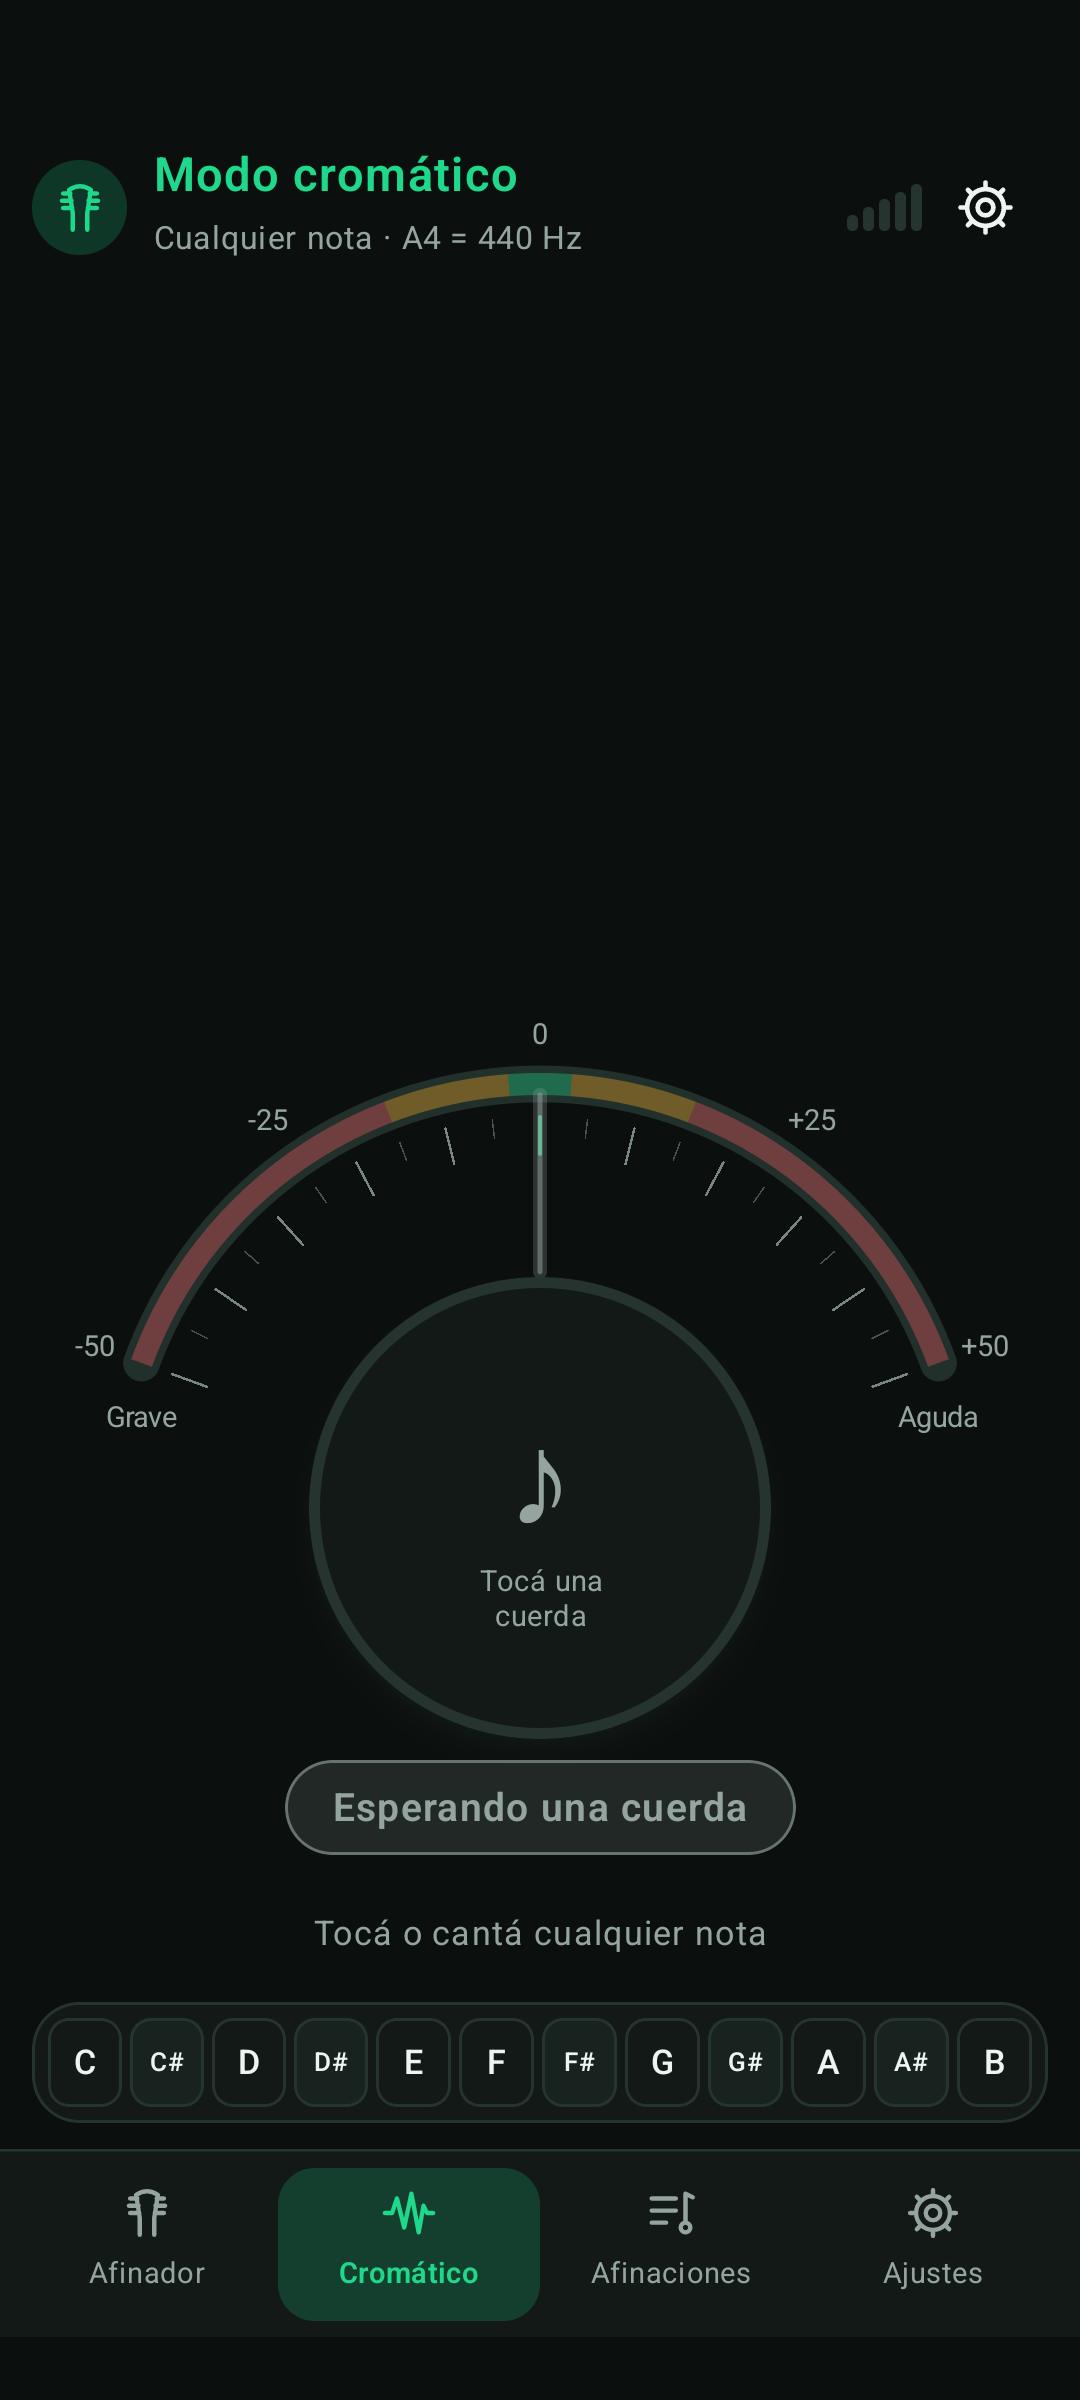
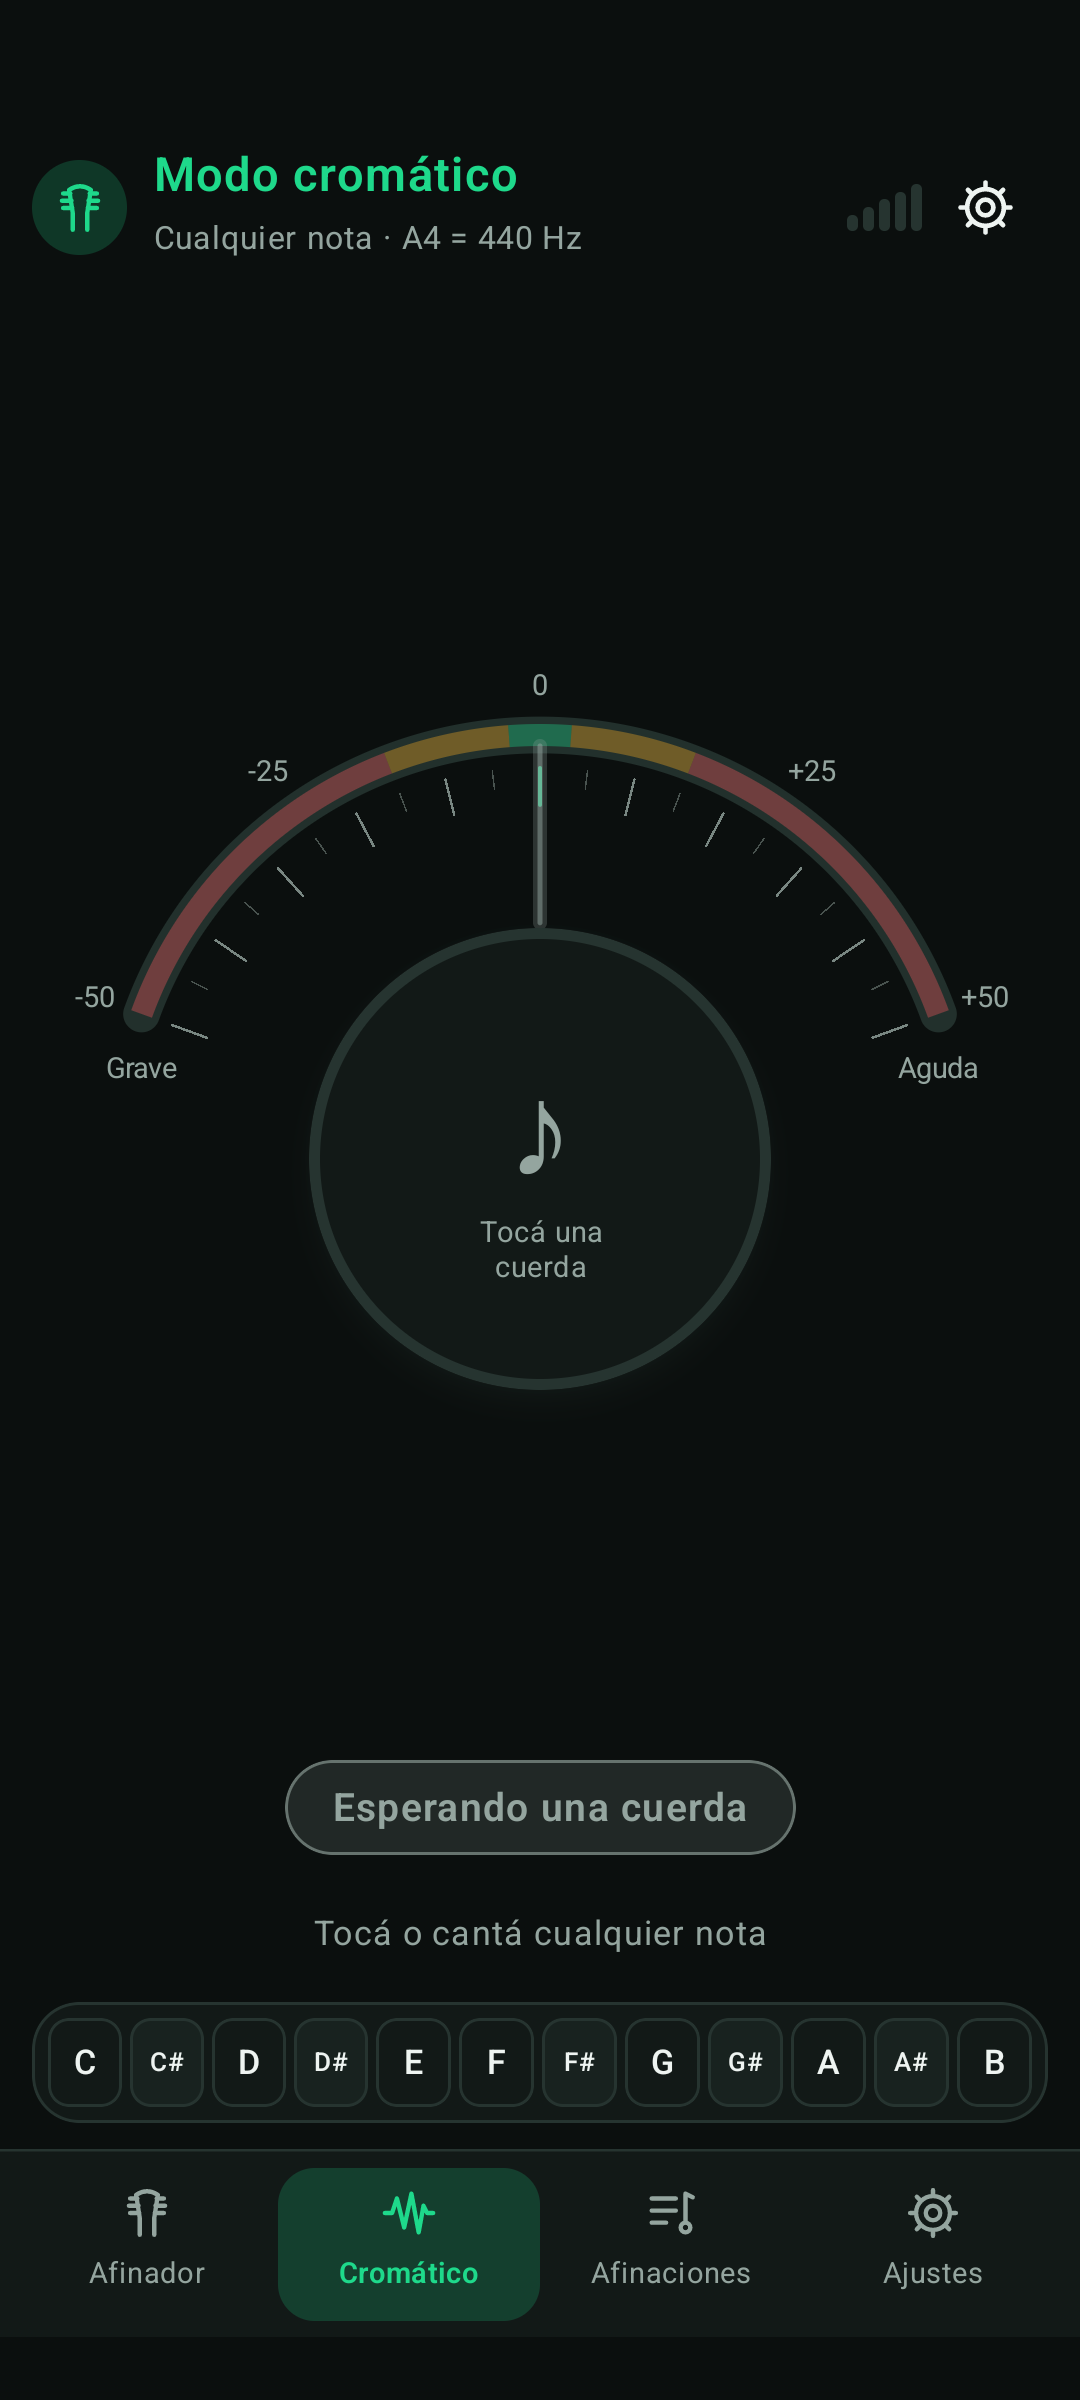
Afinador: informe actualizado para la versión 1.0.7
Claude-Session: https://claude.ai/code/session_01PLz5xwo8xYp4HnG1p9CSPT

diff --git a/docs/INFORME.md b/docs/INFORME.md
@@ -1,4 +1,4 @@
-# Informe de compilación y pruebas — Afinador Acústico 1.0.6
+# Informe de compilación y pruebas — Afinador Acústico 1.0.7
 
 Todo lo que figura acá se ejecutó de verdad, en este entorno o en GitHub Actions. Ningún resultado es simulado.
 
@@ -6,11 +6,11 @@ Todo lo que figura acá se ejecutó de verdad, en este entorno o en GitHub Actio
 
 | | |
 |---|---|
-| APK de lanzamiento | `AfinadorAcustico-1.0.6.apk` (1.344.560 bytes) |
-| Descarga | https://github.com/georgestrike25-afk/App-pc-finazas/releases/download/afinador-v1.0.6/AfinadorAcustico-1.0.6.apk |
-| Página del release | https://github.com/georgestrike25-afk/App-pc-finazas/releases/tag/afinador-v1.0.6 |
[1 lines of base64/hex data omitted]
-| Paquete | `com.afinador.acustico`, versionCode 6, minSdk 26 (Android 8.0), targetSdk 35 |
+| APK de lanzamiento | `AfinadorAcustico-1.0.7.apk` (1.344.560 bytes) |
+| Descarga | https://github.com/georgestrike25-afk/App-pc-finazas/releases/download/afinador-v1.0.7/AfinadorAcustico-1.0.7.apk |
+| Página del release | https://github.com/georgestrike25-afk/App-pc-finazas/releases/tag/afinador-v1.0.7 |
[1 lines of base64/hex data omitted]
+| Paquete | `com.afinador.acustico`, versionCode 7, minSdk 26 (Android 8.0), targetSdk 35 |
 | Firma | APK Signature Scheme v2, verificada con `apksigner verify` (1 firmante). Clave generada en la compilación (ver «Limitaciones»). |
 | Permisos | Sólo `RECORD_AUDIO`. Ni Internet ni ningún otro (lo comprueba el CI y falla si aparece `INTERNET`). |
 | Código fuente | rama `ccr-f6019910-wn0a74`, carpeta `afinador-acustico/` |
@@ -57,7 +57,7 @@ El ≈ 0,3 cent de error con la cuerda pulsada viene de la inarmonicidad física
 
 **Fallas encontradas y corregidas:** la primera versión fallaba con ruido fuerte. Tenía errores de octava (−1201 cents) con SNR 10 dB y una dispersión de 17 cents con SNR 20 dB en E2. Se corrigió agregando un pasa bajos Butterworth antes de YIN y eligiendo el primer mínimo cercano al global cuando hay ruido.
 
-### 2. App Android (CI, ejecución 40548450807, commit `2c77270`): todo correcto
+### 2. App Android (CI, ejecución 40550350794, commit `421c153`): todo correcto
 
 - `:app:testDebugUnitTest`, `:app:lintDebug` (sin errores), `assembleDebug`, `assembleRelease` (R8 activado) y `assembleDebugAndroidTest`: correctos.
 - **Pruebas de interfaz en emulador**, 8 de 8 en dos dispositivos: API 34 (Pixel 6) y API 29 (Nexus 5, pantalla chica de 360×640 dp). Usan el micrófono, el motor y DataStore reales:
